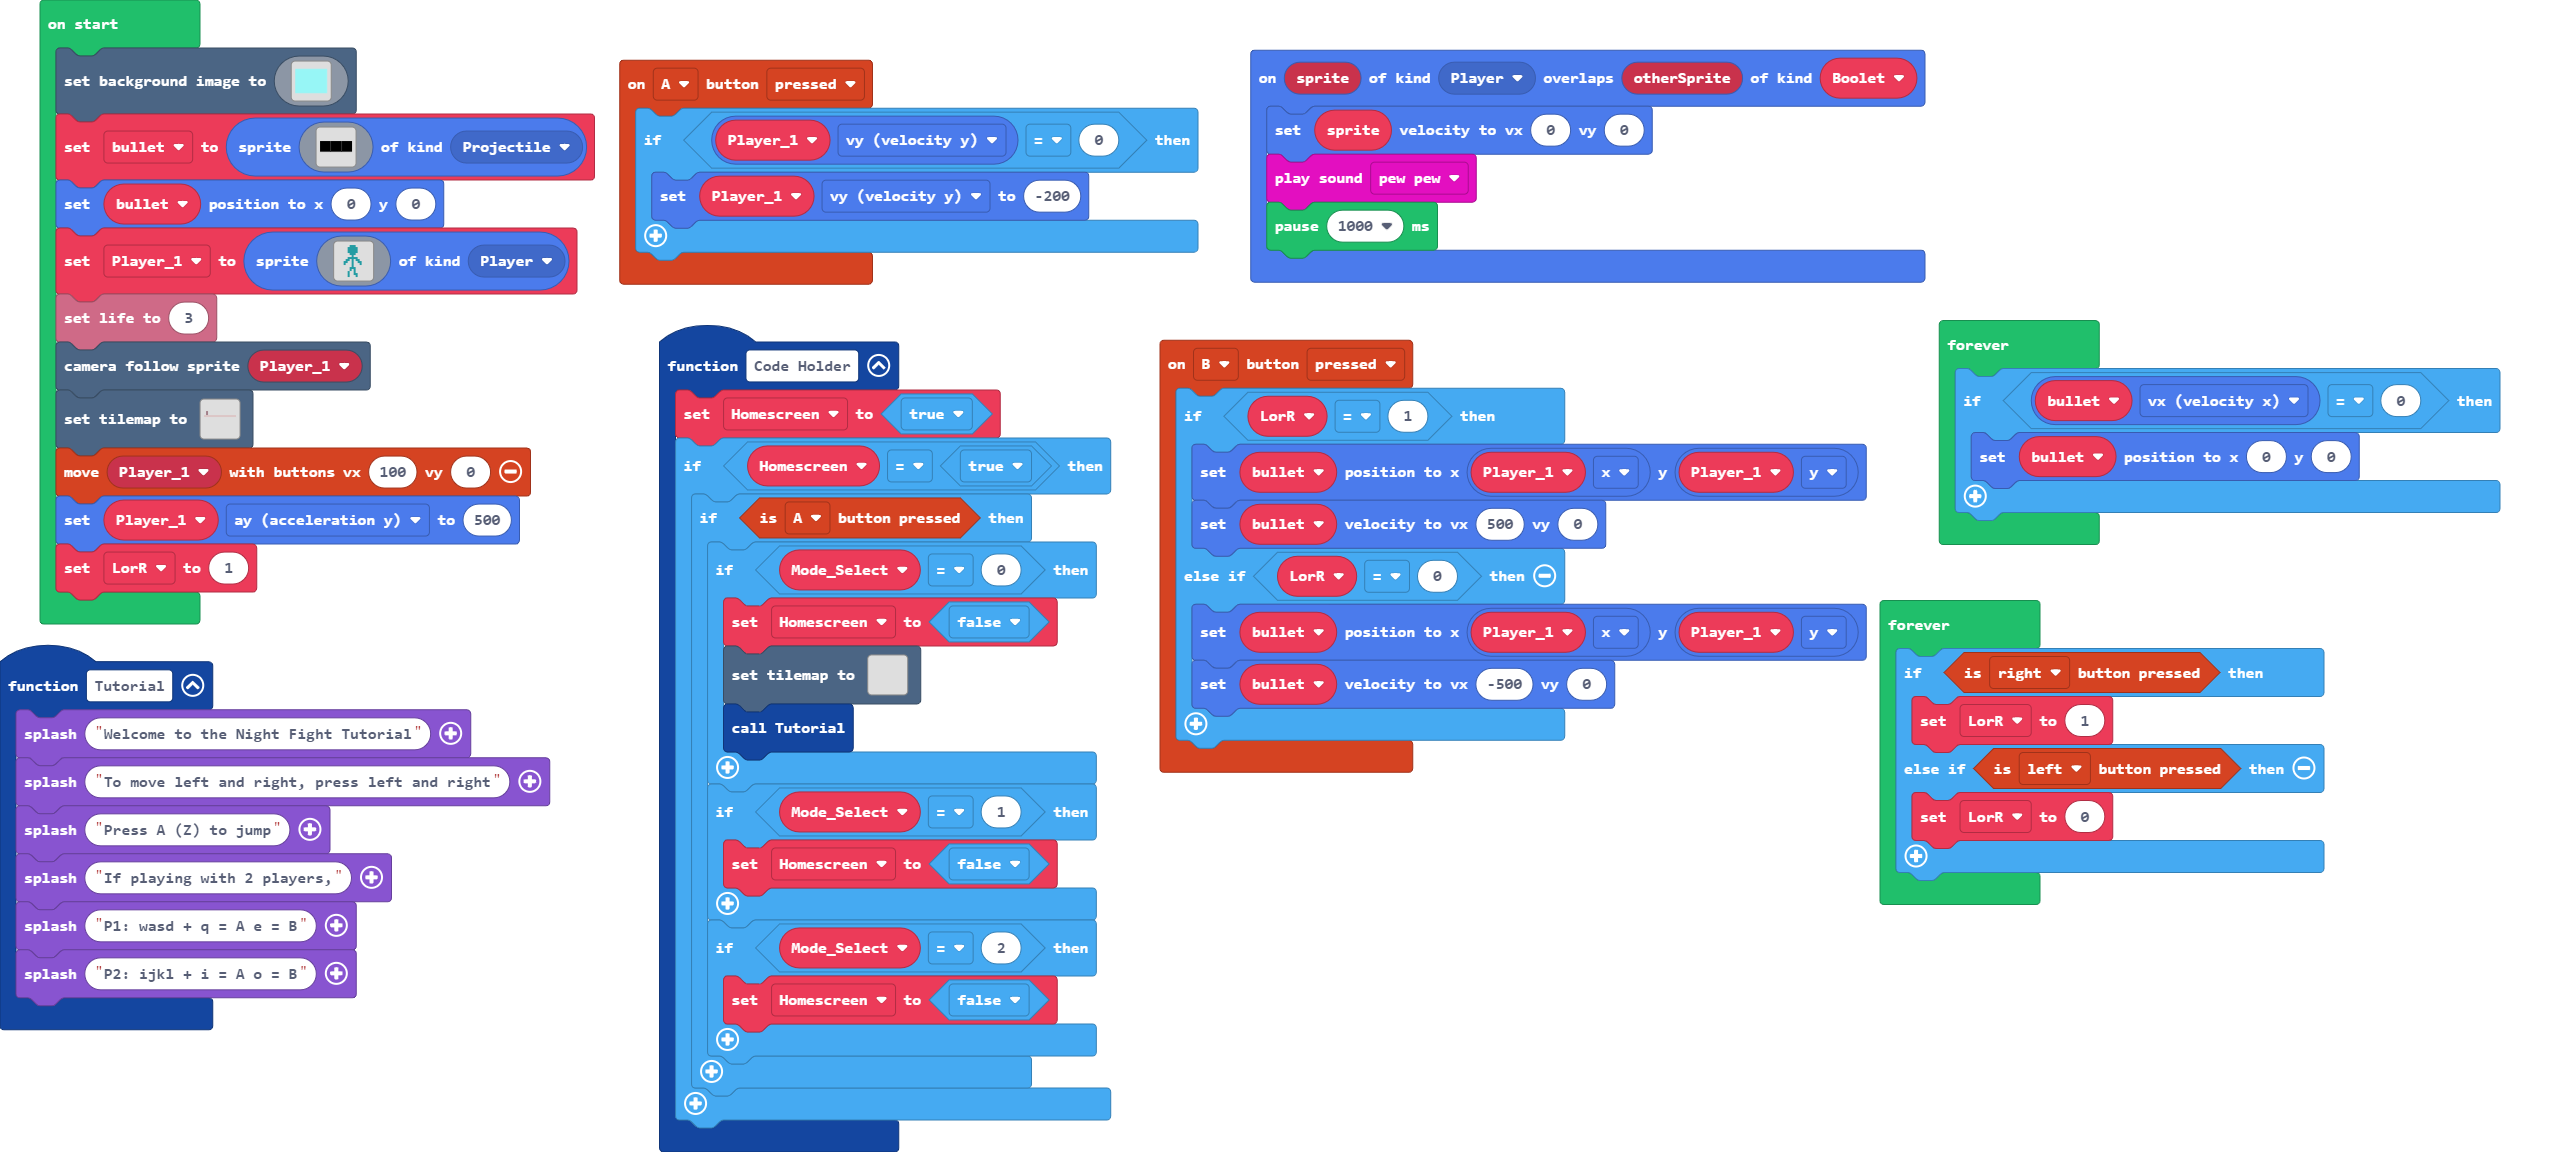
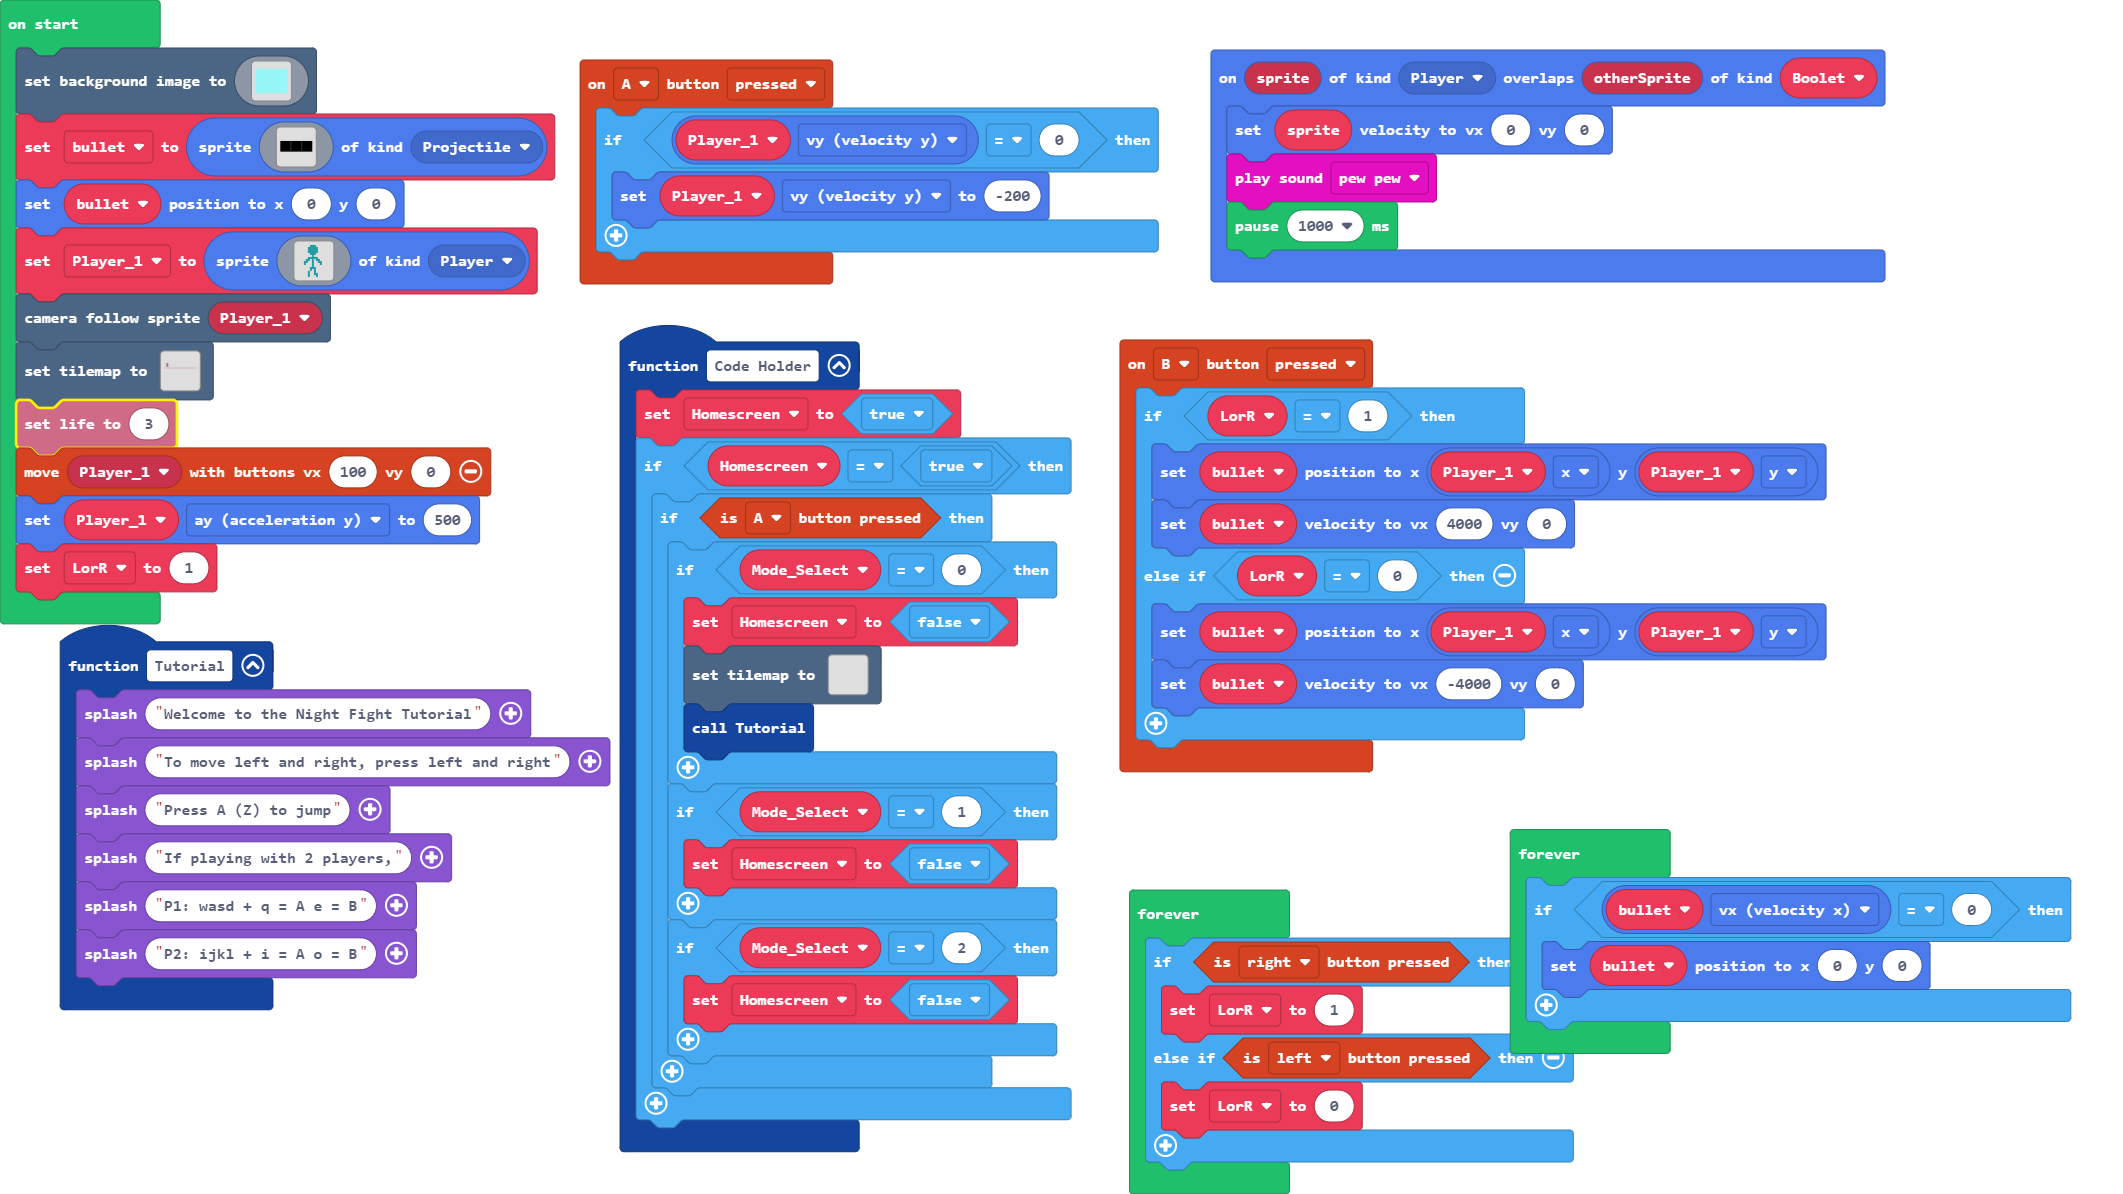
increased speed of bullet

diff --git a/tilemap.g.ts b/tilemap.g.ts
@@ -206,6 +206,44 @@ namespace myTiles {
 . . . . . . . . . . . . . . . . 
 . . . . . . . . . . . . . . . . 
 `, [myTiles.transparency16], TileScale.Sixteen);
+            case "level5":
+            case "level5":return tiles.createTilemap(hex`1000100000000000000000000000000000000000000000000000000000000000000000000000000000000000000000000000000000000000000000000000000000000000000000000000000000000000000000000000000000000000000000000000000000000000000000000000000000000000000000000000000000000000000000000000000000000000000000000000000000000000000000000000000000000000000000000000000000000000000000000000000000000000000000000000000000000000000000000000000000000000000000000000000000000000000000000000000000000000000000000000000000000000000000000000000000000000`, img`
+. . . . . . . . . . . . . . . . 
+. . . . . . . . . . . . . . . . 
+. . . . . . . . . . . . . . . . 
+. . . . . . . . . . . . . . . . 
+. . . . . . . . . . . . . . . . 
+. . . . . . . . . . . . . . . . 
+. . . . . . . . . . . . . . . . 
+. . . . . . . . . . . . . . . . 
+. . . . . . . . . . . . . . . . 
+. . . . . . . . . . . . . . . . 
+. . . . . . . . . . . . . . . . 
+. . . . . . . . . . . . . . . . 
+. . . . . . . . . . . . . . . . 
+. . . . . . . . . . . . . . . . 
+. . . . . . . . . . . . . . . . 
+. . . . . . . . . . . . . . . . 
+`, [myTiles.transparency16], TileScale.Sixteen);
+            case "level6":
+            case "level6":return tiles.createTilemap(hex`1000100000000000000000000000000000000000000000000000000000000000000000000000000000000000000000000000000000000000000000000000000000000000000000000000000000000000000000000000000000000000000000000000000000000000000000000000000000000000000000000000000000000000000000000000000000000000000000000000000000000000000000000000000000000000000000000000000000000000000000000000000000000000000000000000000000000000000000000000000000000000000000000000000000000000000000000000000000000000000000000000000000000000000000000000000000000000`, img`
+. . . . . . . . . . . . . . . . 
+. . . . . . . . . . . . . . . . 
+. . . . . . . . . . . . . . . . 
+. . . . . . . . . . . . . . . . 
+. . . . . . . . . . . . . . . . 
+. . . . . . . . . . . . . . . . 
+. . . . . . . . . . . . . . . . 
+. . . . . . . . . . . . . . . . 
+. . . . . . . . . . . . . . . . 
+. . . . . . . . . . . . . . . . 
+. . . . . . . . . . . . . . . . 
+. . . . . . . . . . . . . . . . 
+. . . . . . . . . . . . . . . . 
+. . . . . . . . . . . . . . . . 
+. . . . . . . . . . . . . . . . 
+. . . . . . . . . . . . . . . . 
+`, [myTiles.transparency16], TileScale.Sixteen);
         }
         return null;
     })

diff --git a/main.ts b/main.ts
@@ -2,10 +2,10 @@ let Boolet = 0
 controller.B.onEvent(ControllerButtonEvent.Pressed, function () {
     if (LorR == 1) {
         bullet.setPosition(Player_1.x, Player_1.y)
-        bullet.setVelocity(500, 0)
+        bullet.setVelocity(4000, 0)
     } else if (LorR == 0) {
         bullet.setPosition(Player_1.x, Player_1.y)
-        bullet.setVelocity(-500, 0)
+        bullet.setVelocity(-4000, 0)
     }
 })
 controller.A.onEvent(ControllerButtonEvent.Pressed, function () {
@@ -191,9 +191,9 @@ Player_1 = sprites.create(img`
     . . . . . 6 . . 6 6 . . . . . . 
     . . . . . 6 . . . 6 . . . . . . 
     `, SpriteKind.Player)
-info.setLife(3)
 scene.cameraFollowSprite(Player_1)
 tiles.setTilemap(tilemap`level1`)
+info.setLife(3)
 controller.moveSprite(Player_1, 100, 0)
 Player_1.ay = 500
 LorR = 1
